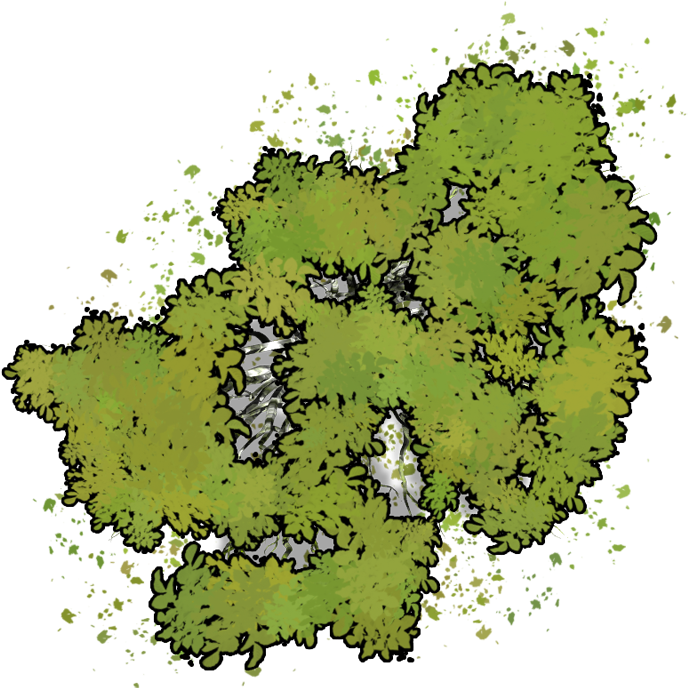
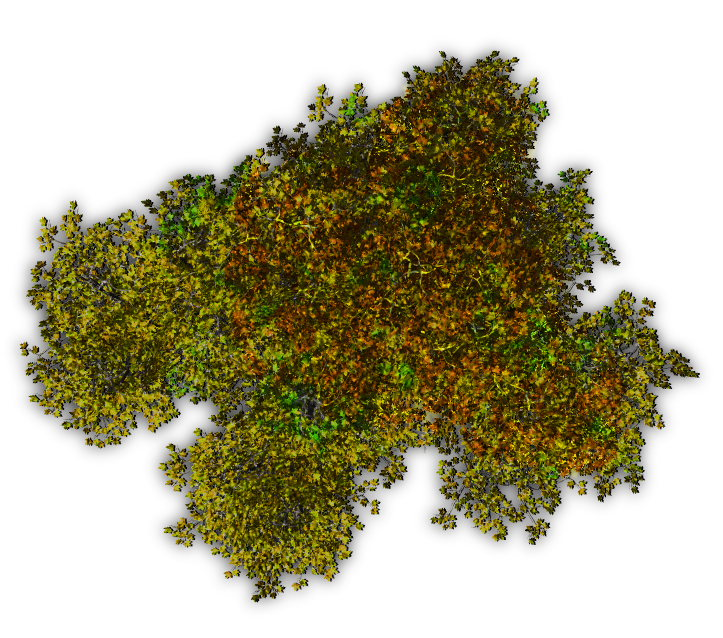
more mapgen assets

diff --git a/static/mezolit/script.js b/static/mezolit/script.js
@@ -3,7 +3,7 @@ window.addEventListener('message', ({ data }) => {
     const bodyStyle = document.querySelector('body').style;
     bodyStyle.height = `${data.height}px`;
     bodyStyle.width = `${data.width}px`;
-})
+});
 
 const bind = (input, parent, property) => {
     const type = typeof parent[property];
@@ -44,40 +44,53 @@ const button = (parent, label, action) => {
     })
 }
 
+const tr = (parent, tdContents) => {
+    elem(parent, 'tr', null, tr => {
+        tdContents.forEach(tdContent => {
+            if (typeof tdContent === 'string') {
+                elem(tr, 'th', tdContent);
+            } else {
+                elem(tr, 'td', null, td => tdContent(td))
+            }
+        });
+    });
+}
 
-
-
-
-const charString = localStorage.getItem('character');
-
-const character = charString ? JSON.parse(charString) : {
-    name: '',
-    age: '',
-    background: '',
-    attributes: {
-        Hunting: { max: 1, val: 1 },
-        Making: { max: 1, val: 1 },
-        Life: { max: 1, val: 1 },
-        Cunning: { max: 1, val: 1 },
-        Song: { max: 1, val: 1 },
-        Anima: { max: 1, val: 1 }
-    },
-    description: '',
-    notes: '',
-    items: [],
-    songs: [],
-    tattoos: [],
-};
+let character;
 
 const save = () => localStorage.setItem('character', JSON.stringify(character));
 
-save();
+const loadCharacter = () => {
+    const charString = localStorage.getItem('character');
+
+    character = charString ? JSON.parse(charString) : {
+        name: '',
+        age: '',
+        background: '',
+        attributes: {
+            Hunting: { max: 1, val: 1 },
+            Making: { max: 1, val: 1 },
+            Life: { max: 1, val: 1 },
+            Cunning: { max: 1, val: 1 },
+            Song: { max: 1, val: 1 },
+            Anima: { max: 1, val: 1 }
+        },
+        description: '',
+        notes: '',
+        items: [],
+        songs: [],
+        tattoos: [],
+    };
+
+    save();
+
+};
+
 
 const populateTextSection = (title) => {
     const field = title.toLowerCase();
 
     const tbody = document.querySelector(`#section-${title} tbody`);
-
     elem(tbody, 'tr', null, tr => {
         elem(tr, 'td', null, td => {
             elem(td, 'textarea', character[field], text => {
@@ -89,29 +102,31 @@ const populateTextSection = (title) => {
 
 const populateCharacter = () => {
     const tbody = document.querySelector('#section-Character tbody');
-    ['Name', 'Age', 'Background'].forEach(label => elem(tbody, 'tr', null, tr => {
-        elem(tr, 'th', label);
-        elem(tr, 'td', null, td => {
-            td.colSpan = 2;
-            input(td, 'text', character, label.toLowerCase());
-        })
-    }));
+    ['Name', 'Age', 'Background'].forEach(label => tr(tbody,
+        [
+            label,
+            td => {
+                td.colSpan = 2;
+                input(td, 'text', character, label.toLowerCase());
+            }
+        ]
+    ));
 
 
     Object.entries(character.attributes).forEach(([name, value]) => {
-        elem(tbody, 'tr', null, tr => {
-            elem(tr, 'th', name);
-            elem(tr, 'td', null, td => {
+        tr(tbody, [
+            name,
+            td => {
                 input(td, 'number', value, 'val');
                 td.appendChild(document.createTextNode('/'));
                 input(td, 'number', value, 'max');
-            });
-            elem(tr, 'td', null, td => {
+            },
+            td => {
                 button(td, 'Roll', () => {
                     window.parent?.postMessage(`${name} check: ${value.val}D`, '*');
                 });
-            })
-        });
+            }
+        ])
     });
 }
 
@@ -119,22 +134,22 @@ const populateSongs = () => {
     const tbody = document.querySelector('#section-Songs tbody');
     tbody.replaceChildren();
     character.songs.forEach((song, idx) => {
-        elem(tbody, 'tr', null, tr => {
-            elem(tr, 'td', null, td => {
+        tr(tbody, [
+            td => {
                 input(td, 'text', song, 'name');
-            });
-            elem(tr, 'td', null, td => {
+            },
+            td => {
                 input(td, 'number', song, 'difficulty');
-            })
-            elem(tr, 'td', null, td => {
+            },
+            td => {
                 td.className = 'delete';
                 button(td, '❌', () => {
                     character.songs.splice(idx, 1);
                     save();
                     populateSongs();
                 });
-            })
-        })
+            }
+        ])
     });
     elem(tbody, 'tr', null, tr => {
         tr.className = 'buttonrow';
@@ -157,31 +172,31 @@ const populateItems = (section) => {
     tbody.replaceChildren();
     const field = section.toLowerCase();
     character[field].forEach((item, idx) => {
-        elem(tbody, 'tr', null, tr => {
-            elem(tr, 'td', null, td => {
+        tr(tbody, [
+            td => {
                 input(td, 'text', item, 'name');
-            });
-            elem(tr, 'td', null, td => {
+            },
+            td => {
                 input(td, 'number', item, 'strength');
-            });
-            elem(tr, 'td', null, td => {
+            },
+            td => {
                 input(td, 'number', item, 'difficulty');
-            });
-            elem(tr, 'td', null, td => {
+            },
+            td => {
                 input(td, 'checkbox', item, 'canMake');
-            });
-            elem(tr, 'td', null, td => {
+            },
+            td => {
                 input(td, 'number', item, 'charges');
-            });
-            elem(tr, 'td', null, td => {
+            },
+            td => {
                 td.className = 'delete';
                 button(td, '❌', () => {
                     character[field].splice(idx, 1);
                     save();
                     populateItems(section);
                 });
-            })
-        })
+            }
+        ]);
     });
     elem(tbody, 'tr', null, tr => {
         tr.className = 'buttonrow';
@@ -231,6 +246,7 @@ const populateNav = () => {
     });
 };
 
+loadCharacter();
 selectSection('Character');
 populateCharacter();
 populateRolls();
@@ -241,9 +257,3 @@ populateTextSection('Notes');
 populateTextSection('Description');
 populateNav();
 
-
-
-// textSection('Equipment', 'equipment');
-// textSection('Songs', 'songs');
-// textSection('Notes', 'notes');
-// textSection('Backstory', 'backstory');

diff --git a/client/mapgen/assets.ts b/client/mapgen/assets.ts
@@ -11,12 +11,42 @@ export type MapAssetCategory = 'rock' | 'tree' | 'plant';
 const MapAsset = {
     ROCK: {
         url: '/assets/mapgen/rock.png',
+        rescaleX: 16,
+        rescaleY: 16,
+        category: 'rock',
+    },
+    ROCK2: {
+        url: '/assets/mapgen/rock2.png',
         rescaleX: 32,
-        rescaleY: 32,
+        rescaleY: 8,
+        category: 'rock',
+    },
+    ROCK3: {
+        url: '/assets/mapgen/rock3.png',
+        rescaleX: 32,
+        rescaleY: 8,
         category: 'rock',
     },
     PLANT: {
         url: '/assets/mapgen/plant.png',
+        rescaleX: 16,
+        rescaleY: 16,
+        category: 'plant'
+    },
+    PLANT2: {
+        url: '/assets/mapgen/plant2.png',
+        rescaleX: 16,
+        rescaleY: 16,
+        category: 'plant'
+    },
+    PLANT3: {
+        url: '/assets/mapgen/plant3.png',
+        rescaleX: 16,
+        rescaleY: 16,
+        category: 'plant'
+    },
+    PLANT4: {
+        url: '/assets/mapgen/plant4.png',
         rescaleX: 16,
         rescaleY: 16,
         category: 'plant'
@@ -29,6 +59,24 @@ const MapAsset = {
     },
     TREE2: {
         url: '/assets/mapgen/tree2.png',
+        rescaleX: 48,
+        rescaleY: 48,
+        category: 'tree',
+    },
+    TREE3: {
+        url: '/assets/mapgen/tree3.png',
+        rescaleX: 48,
+        rescaleY: 48,
+        category: 'tree',
+    },
+    TREE4: {
+        url: '/assets/mapgen/tree4.png',
+        rescaleX: 48,
+        rescaleY: 48,
+        category: 'tree',
+    },
+    TREE5: {
+        url: '/assets/mapgen/tree5.png',
         rescaleX: 48,
         rescaleY: 48,
         category: 'tree',

diff --git a/client/controls/menu.ts b/client/controls/menu.ts
@@ -76,8 +76,8 @@ UI.menu.generateMap.addEventListener('click', async () => {
         size: 512,
         perlinNodes: 8,
         paintedObjects: {
-            plant: 300,
             rock: 50,
+            plant: 300,
             tree: 80
         }
     });
